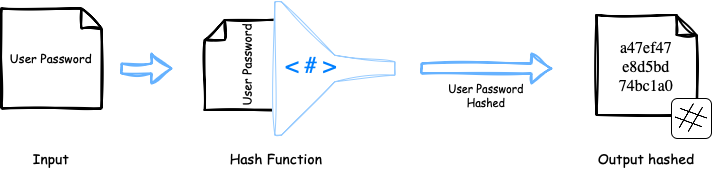
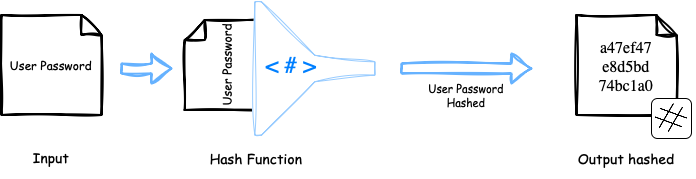
doc image

diff --git a/docs/concepts.md b/docs/concepts.md
@@ -11,3 +11,5 @@ Hashing is a process that takes an input ***(like a password)*** and turns it in
 Once something is hashed, you can’t reverse it to get the original input. That’s why it’s called a one-way function — it's like putting something through a shredder with no way to put the pieces back together.
 
 Hashing is important for password storage because it means the system never has to save your actual password. Instead, it saves only the hash.
+
+![alt text](image.png)
